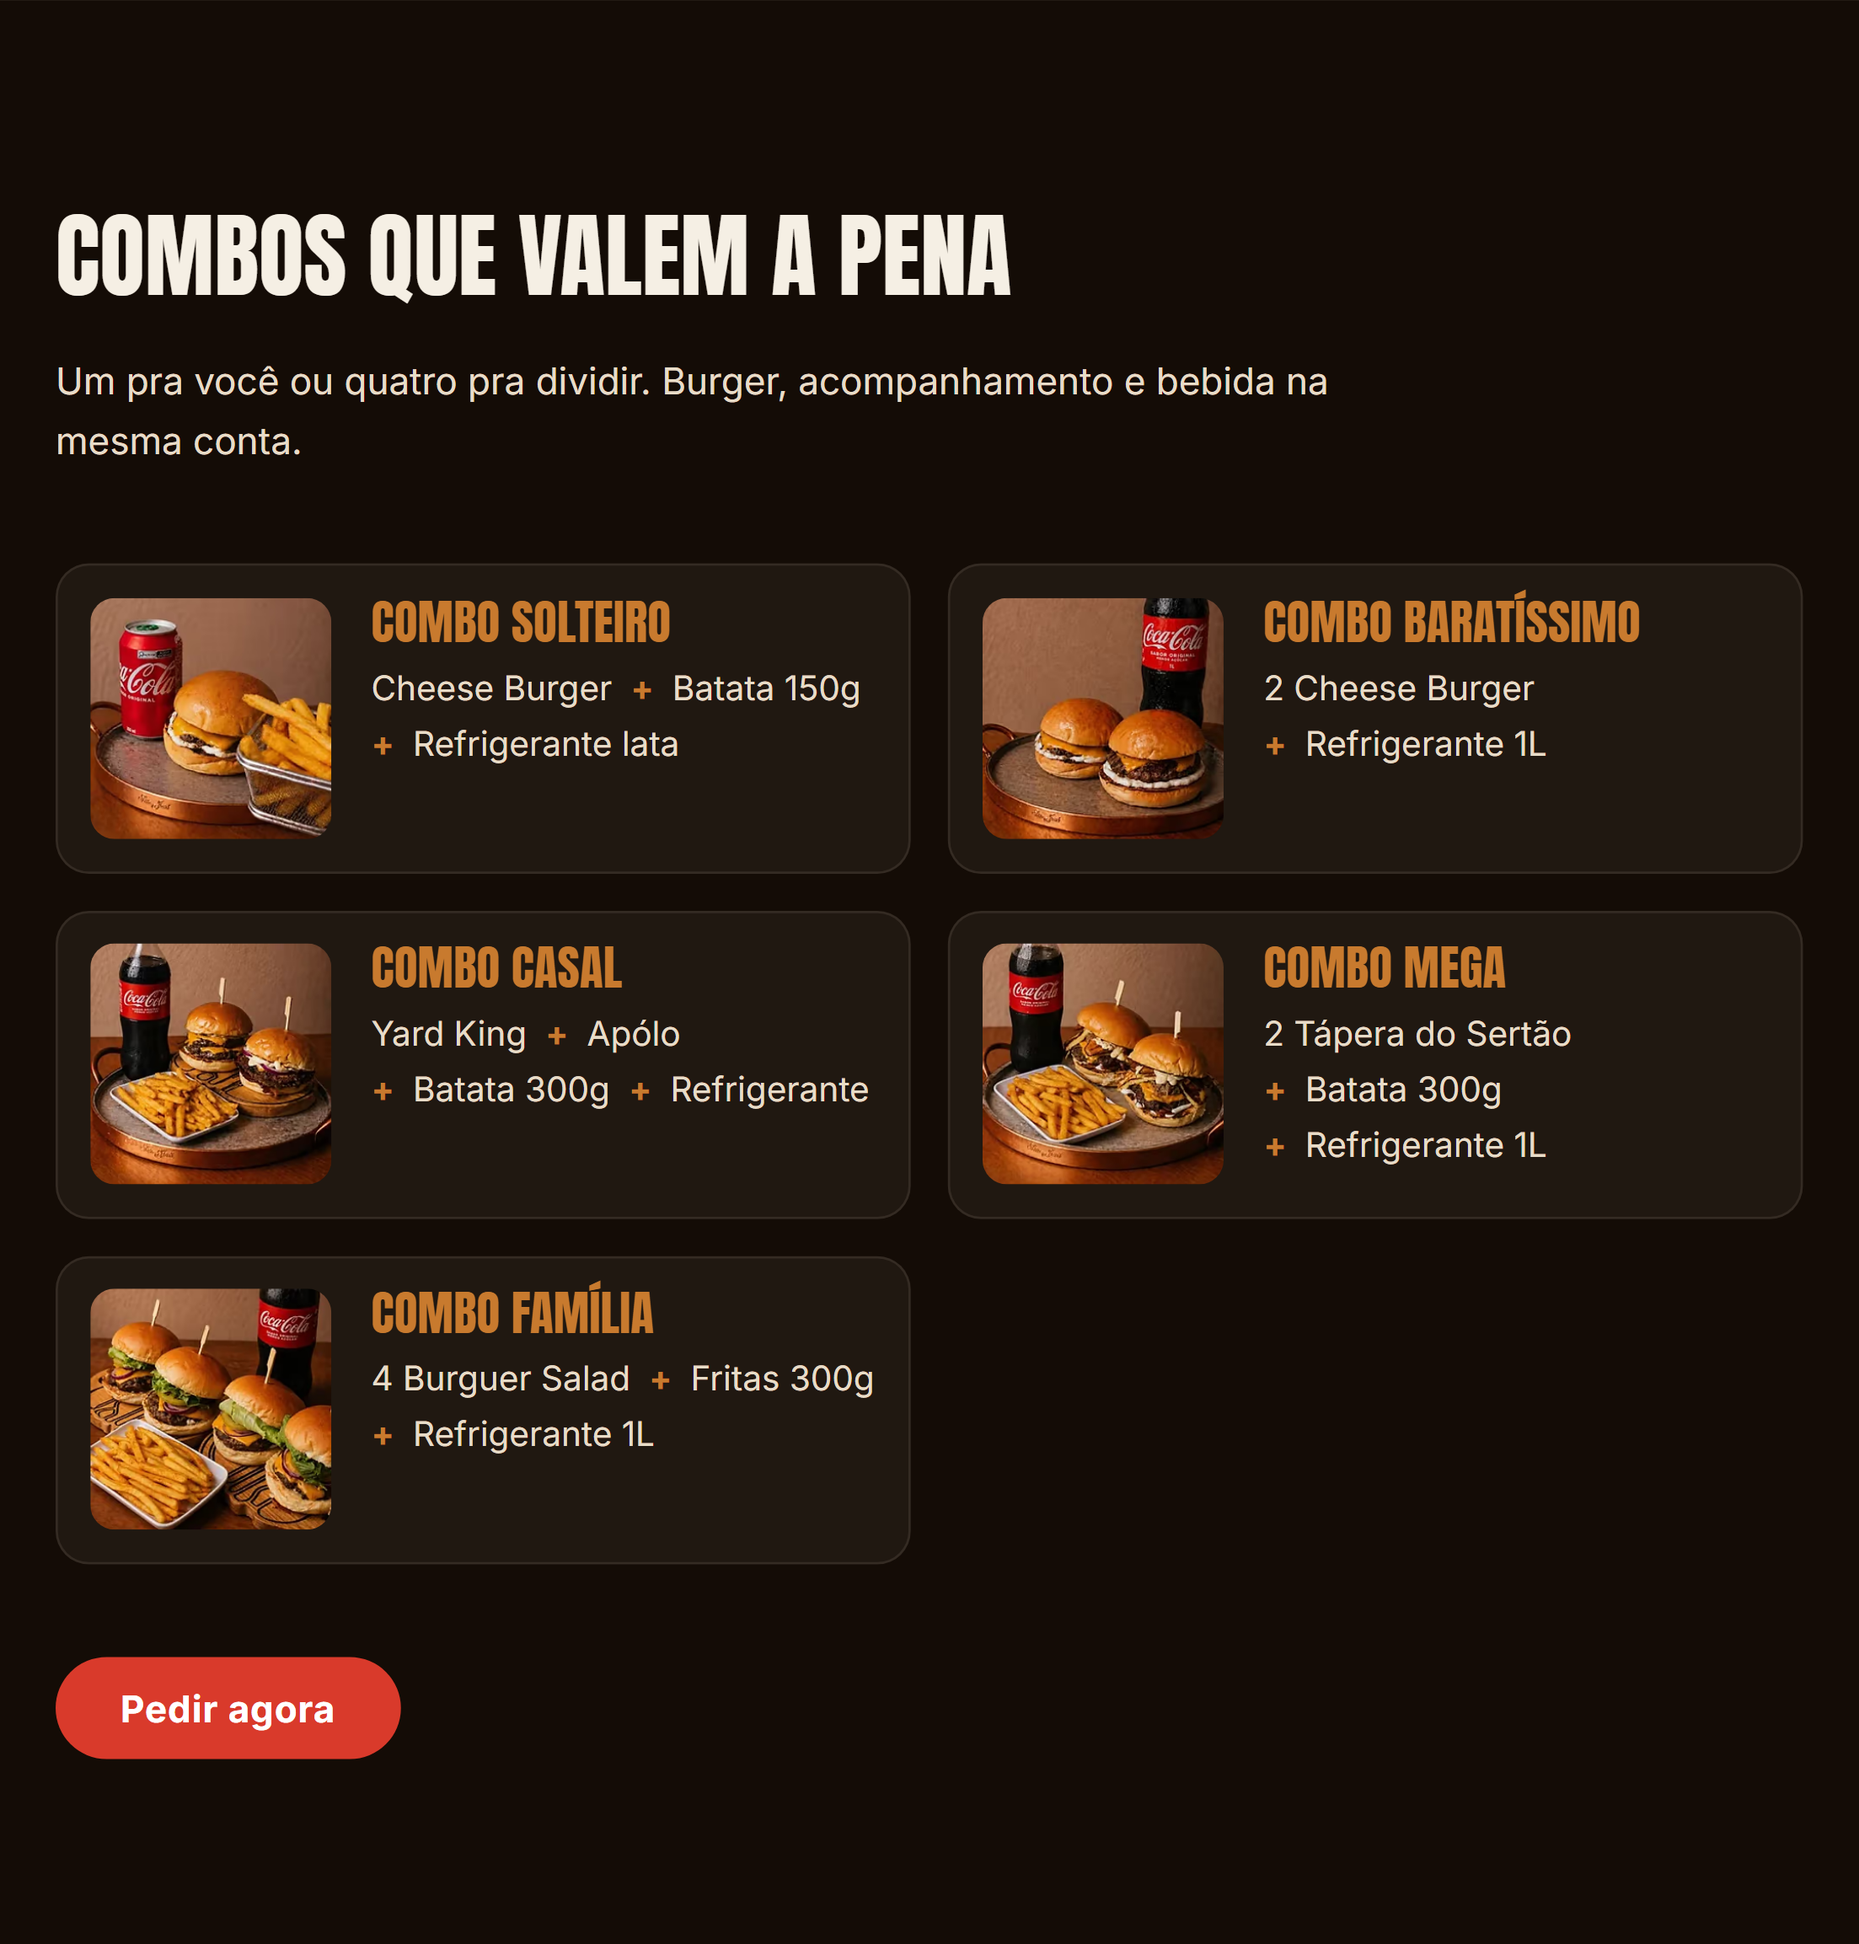
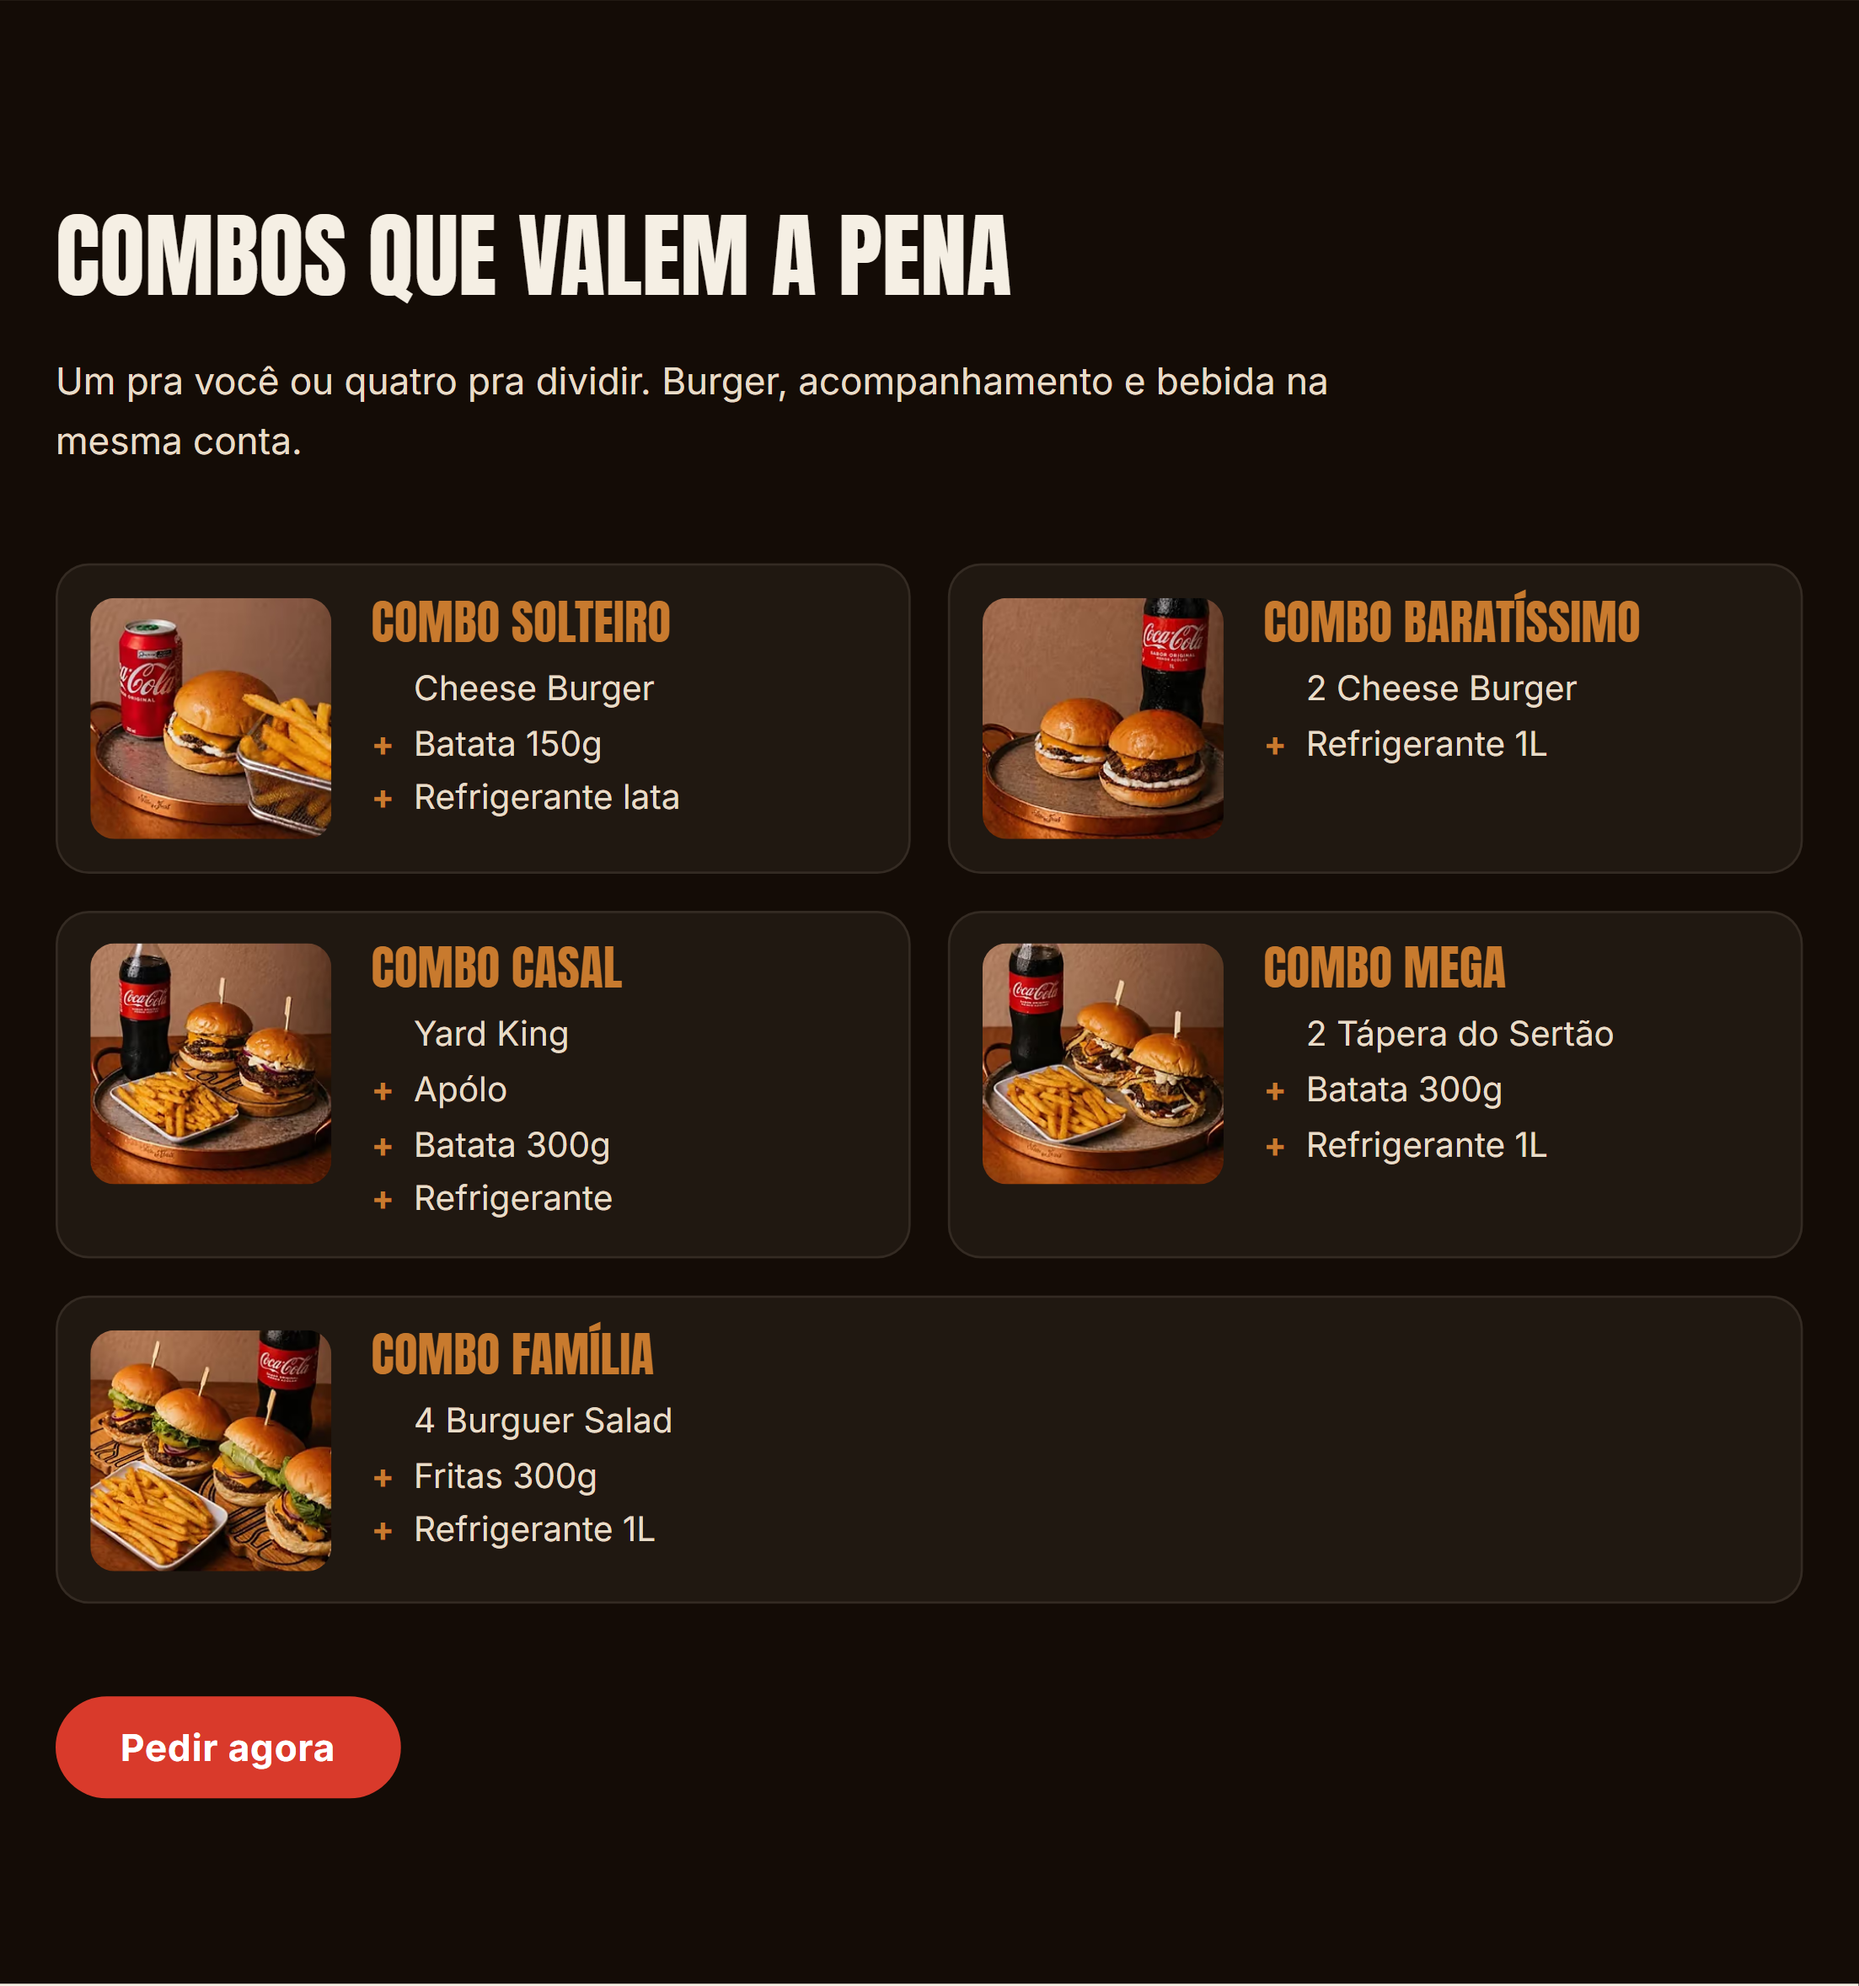
fix(combos): a conta do combo tinha dois alinhamentos e a última linha um buraco
A REFORMA DE 05/09 QUEBROU A COMPOSIÇÃO EM ITENS e parou no meio. Olhando os
prints que ficaram como instrumento, três defeitos passaram:

O PRIMEIRO ITEM NÃO ALINHAVA COM OS DEMAIS. Só do segundo em diante existe o
`+`, então "Cheese Burger" começava colado na margem e "Batata 150g" recuava
0,9rem — três linhas, dois alinhamentos. Agora o `+` mora numa calha fixa de
0,75rem e o texto começa sempre na segunda coluna, inclusive no item que não
tem marcador. Custou um `<span>` no markup: sem embrulho, o texto do primeiro
item cai na célula da calha.

A LISTA AGRUPAVA O QUE COUBESSE. Era `flex-wrap`, e no Casal saía "Yard King +
Apólo" na mesma linha enquanto os outros cards quebravam a cada item — a conta
mudava de formato de card para card, que é exatamente o que a quebra em itens
veio resolver. Vira grid de uma coluna: um item por linha, sempre.

A ÚLTIMA LINHA TINHA UM BURACO À DIREITA, e o comentário do CSS afirmava o
contrário. `repeat(auto-fit, minmax(19rem, 1fr))` dimensiona a COLUNA, não o
item: os dois últimos cards herdavam um terço da faixa e o resto ficava vazio.
Com `flex-wrap` + `flex: 1 1 19rem` a última linha reparte a faixa inteira
entre quem sobrou, que é o que o comentário prometia desde o commit passado.
O 19rem é o piso de conteúdo — foto de 6,5rem mais a linha mais longa da conta,
"2 Tápera do Sertão" — não um número escolhido no olho.

`docs/PENDENCIAS.md` ainda dizia "a página mostra 4 combos" como se fosse
[…]

diff --git a/docs/PENDENCIAS.md b/docs/PENDENCIAS.md
@@ -63,8 +63,15 @@ Nada mudou desde 25/08.
 | **`docs/pitch-yard.md`** | O roteiro de demo para o dono — o que se fala enquanto ele rola a página. |
 
 O `menu.json` tem 11 hambúrgueres, 5 combos e 6 porções; a página mostra 3
-destaques e 4 combos. Isso é **decisão, não dívida**: a seção é vitrine e todo
-item leva ao Brendi (ver `scroll-storyboard.md`).
+destaques e **os 5 combos**. Mostrar parte dos hambúrgueres é **decisão, não
+dívida**: a seção é vitrine e todo item leva ao Brendi (ver
+`scroll-storyboard.md`).
+
+Com os combos era outra coisa. Este parágrafo dizia "4 combos" e a frase lia
+como decisão até 05/09, quando a conferência contra
+`menu.brendi.com.br/yard-burguer` mostrou que o COMBO BARATÍSSIMO nunca esteve
+no `menu.json`: não era vitrine escolhida, era dado faltando. Combo é oferta
+fechada — omitir um esconde um preço, não um item de catálogo.
 
 ## 3. Dívidas de imagem
 
